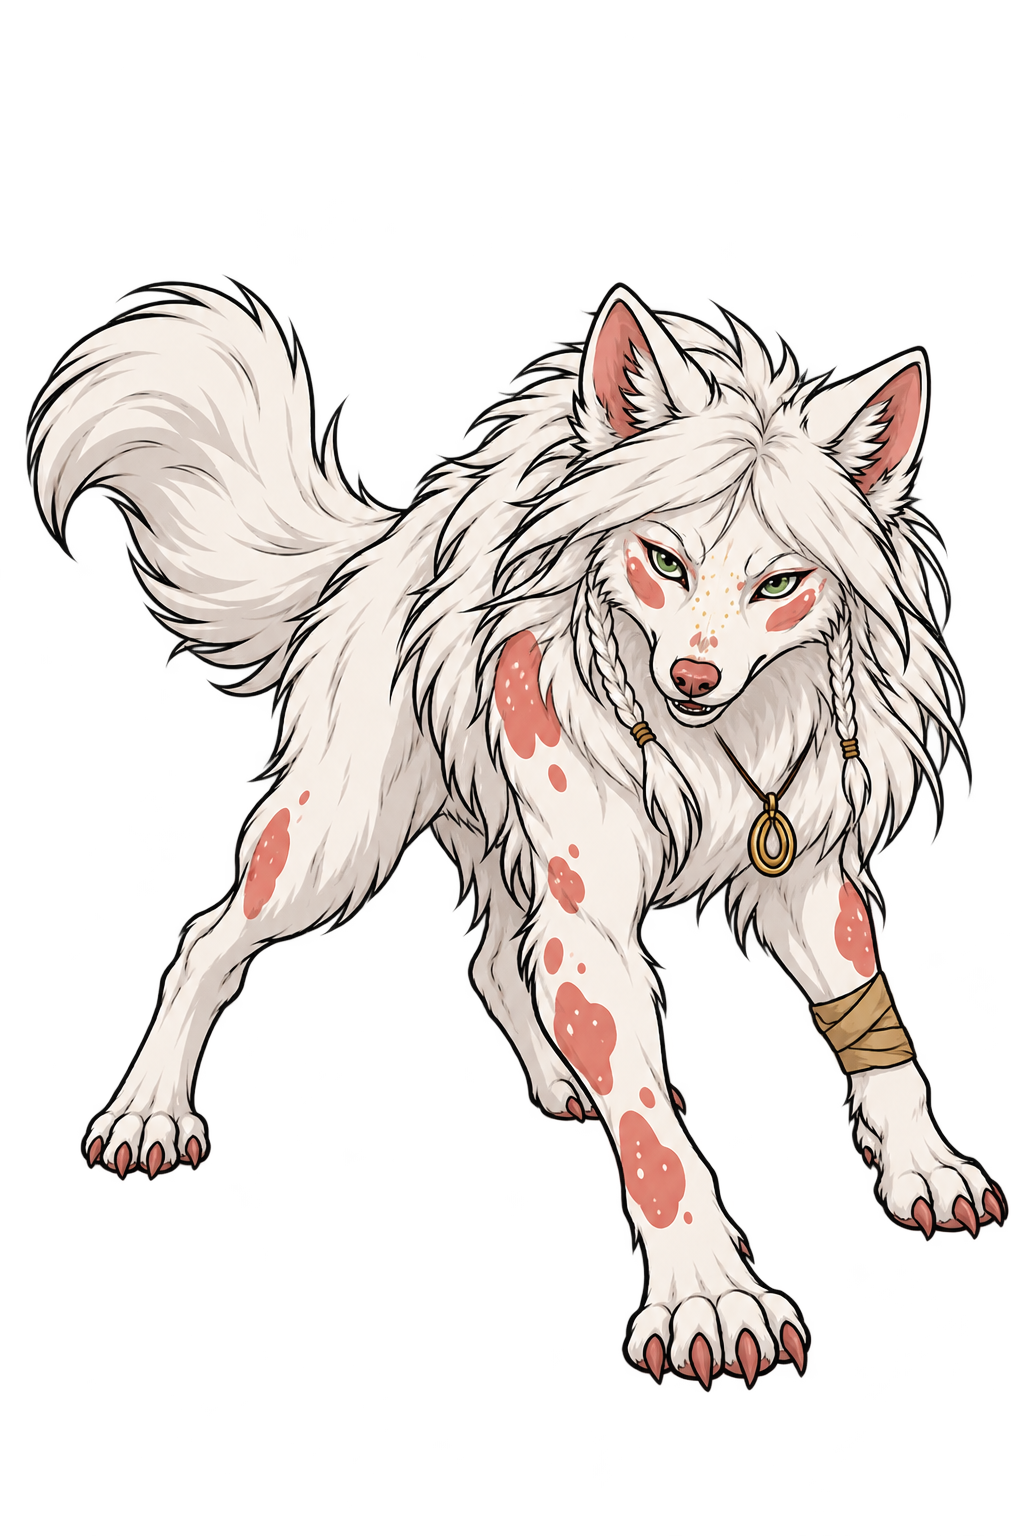
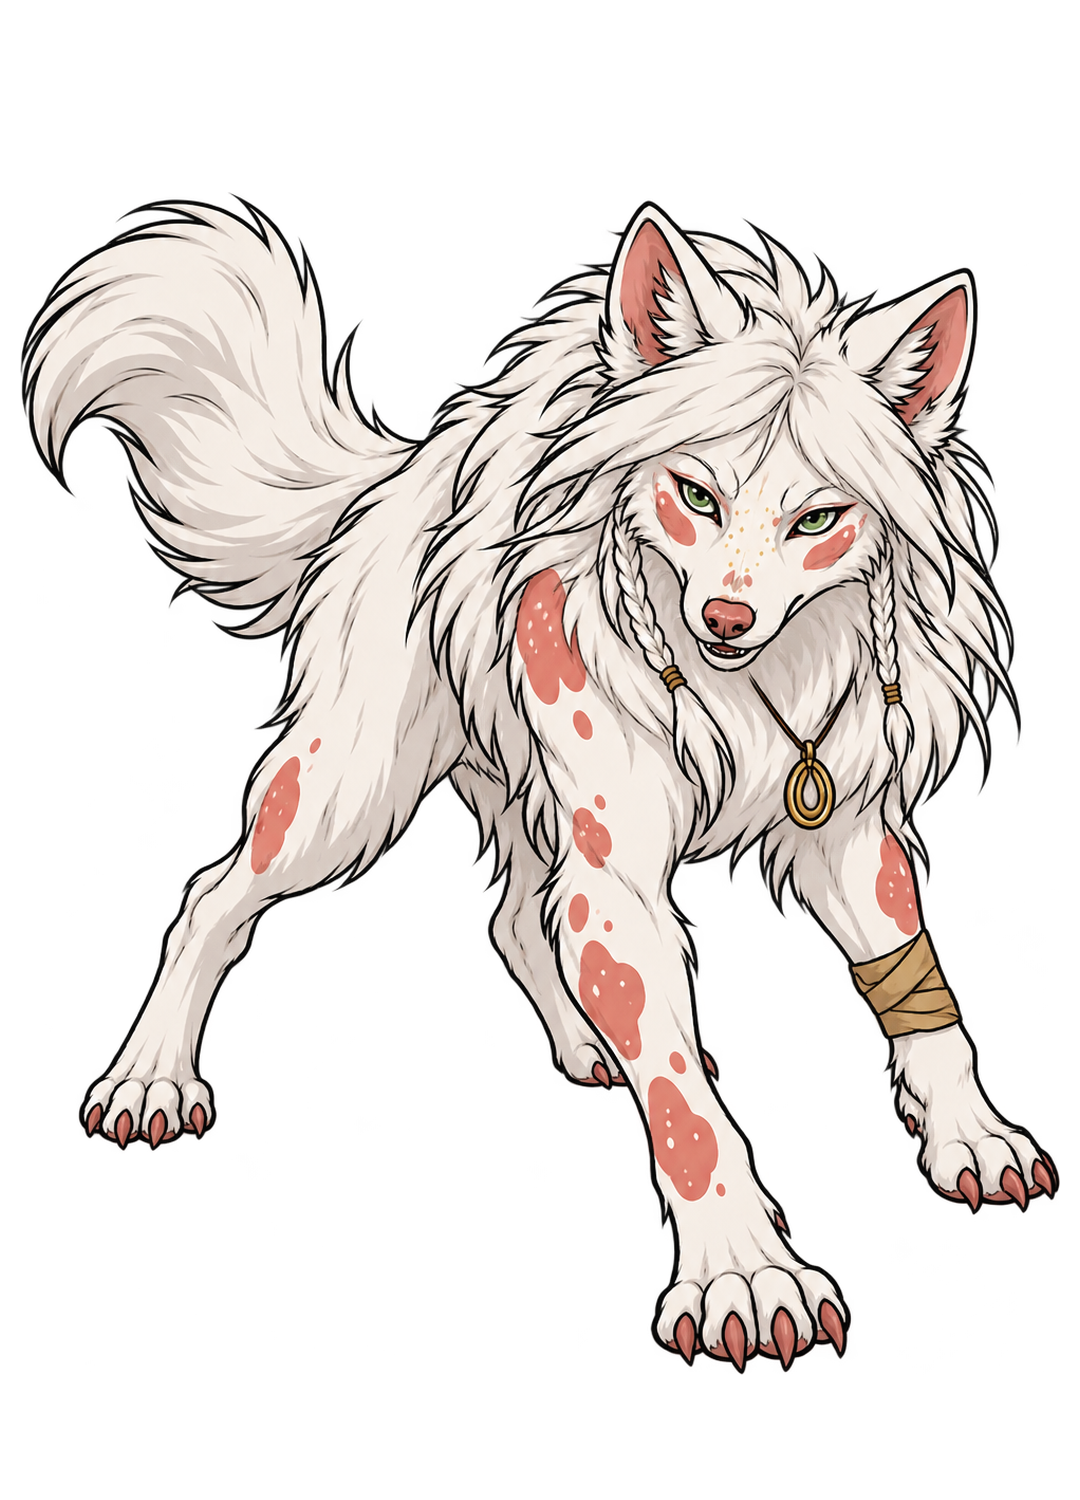
Ilustrace postav: jednotná velikost podle velikostní kategorie (otevřený bod 83)
Bandit, kapitán, Tough, Malk Orren a Albiny podoby přeskládané na plátno
1080 × 1500 s chodidly na y = 1375; cesty v monsters/ beze změny.

Claude-Session: https://claude.ai/code/session_01U4RyGC5rSwF7uDn1FNsUMG

Changed region(s): [[0.0, 0.1227, 1.0, 0.92]]

diff --git a/reference/ilustrace-postav.md b/reference/ilustrace-postav.md
@@ -1,0 +1,27 @@
+# Ilustrace postav a bytostí (karty Player View a animace zásahu)
+
+Všechny portréty postav, NPC, bytostí a podob mají stejné plátno, aby velikost na kartách odpovídala skutečnosti.
+
+| | Hodnota |
+| --- | --- |
+| Plátno | **1080 × 1500 px**, PNG s průhledným pozadím |
+| Chodidla (spodní okraj postavy) | **y = 1375 px** (pod nimi zůstává místo pro pás se jménem) |
+| Vodorovně | na střed |
+
+## Výška postavy podle velikosti
+
+| Velikost | Výška postavy | Příklad |
+| --- | --- | --- |
+| Tiny (drobná) | 400 px | |
+| Small (malá) | 750 px | Leta (717), goblin |
+| Medium (střední) | 1100 px | Tusker, Alba, bandité, Malk Orren |
+| Large (velká) | 1300 px | Albiny podoby (vlk lítý, medvěd) |
+| Huge, Gargantuan | 1340 px (víc se na plátno nevejde) | |
+
+- Výška je od chodidel po temeno (u zvířete po nejvyšší bod).
+- Postava, která by byla širší než 1040 px, se zmenší podle šířky.
+- Uvnitř velikosti smí být postava nižší podle svého vzrůstu: trpaslík Koudur je střední, ale má 830 px.
+
+Úprava hotového obrázku: oříznout na neprůhlednou část, zmenšit na výšku podle tabulky, vložit na průhledné plátno 1080 × 1500 tak, aby chodidla byla na y = 1375.
+
+**Improved Initiative** bere ilustrace z GitHubu adresou. Když adresa obsahuje číslo commitu (`…/DnD/ccc9f23…/monsters/bandit.png`), ukazuje pořád starou verzi; po úpravě obrázku v ní nahraď číslo commitu slovem `main`.
